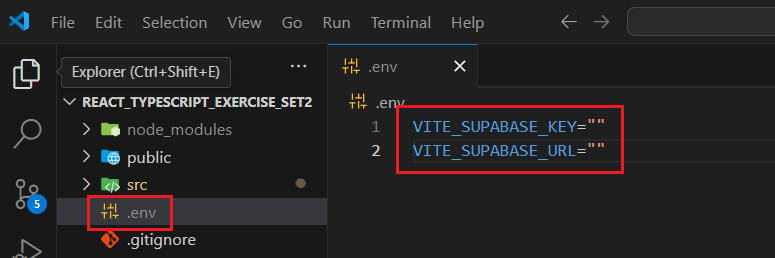
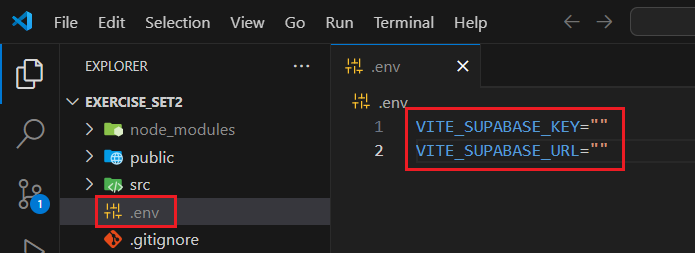
README.md: korjattu virheitä ohjeessa. ohjekuva2.png: ohjekuva päivitetty.

diff --git a/README.md b/README.md
@@ -16,7 +16,7 @@ Siirry sivuvalikosta Project Settings -sivulle. Settings-sivun valikosta siirry 
 ## Ohjelman lataaminen ja riippuvuuksien asentaminen
 Avaa komentoterminaali, navigoi kansioon, johon haluat kloonata projektin ja kloona projekti ajamalla seuraava komento:
 ```
-https://github.com/inkaliinalauranto/Exercise_Set2.git
+git clone https://github.com/inkaliinalauranto/Exercise-Set1.git
 ```
 Siirry kloonattuun projektikansioon ajamalla komentoterminaalissa seuraava cd-komento. (Jos nimesit projektin muulla nimellä, kirjoita nimi Exercise_Set2-nimen tilalle.)
 ```
@@ -32,7 +32,7 @@ code .
 ```
 
 ## Ohjelman konfigurointi ja käynnistäminen
-Vaihda vasemman laidan tiedostopuun ".env_example"-tiedoston nimeksi ".env". 
+Paina vasemman laidan tiedostopuun ".env_example"-tiedoston kohdalla näppäintä "F2" ja vaihda nimeksi ".env". Paina enter-näppäintä nimen syöttämisen jälkeen, jotta tiedoston nimi päivittyy.
 
 ![Ohjekuva tarvittavista sarakkeista](ohjekuva2.png)
 
